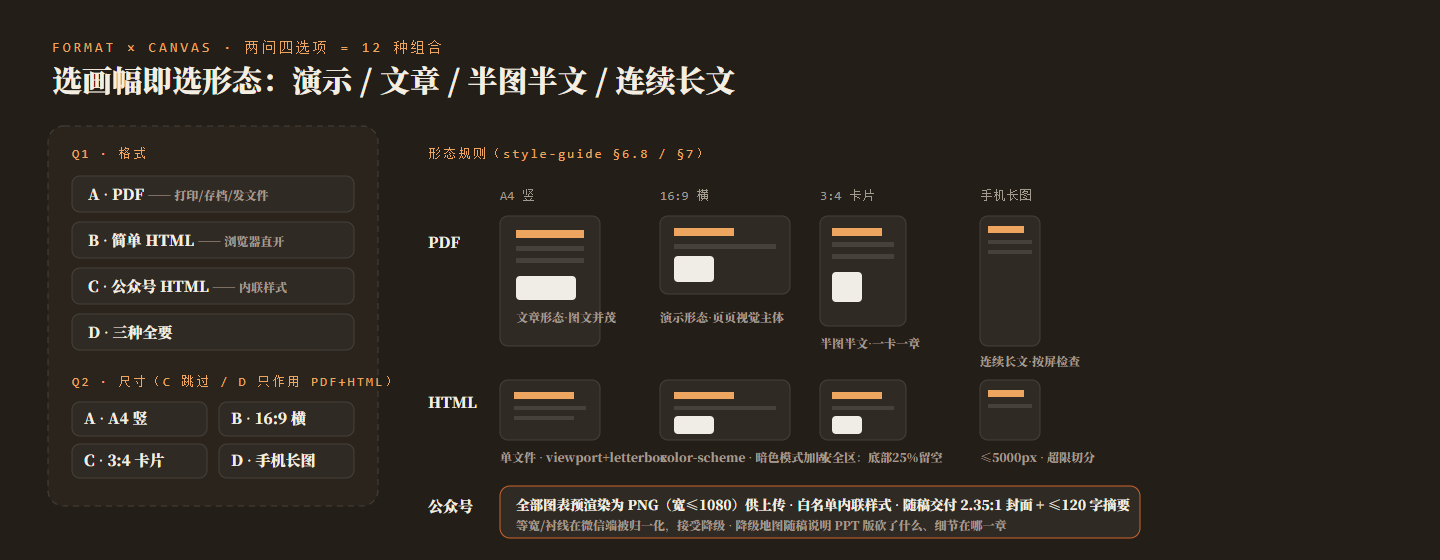
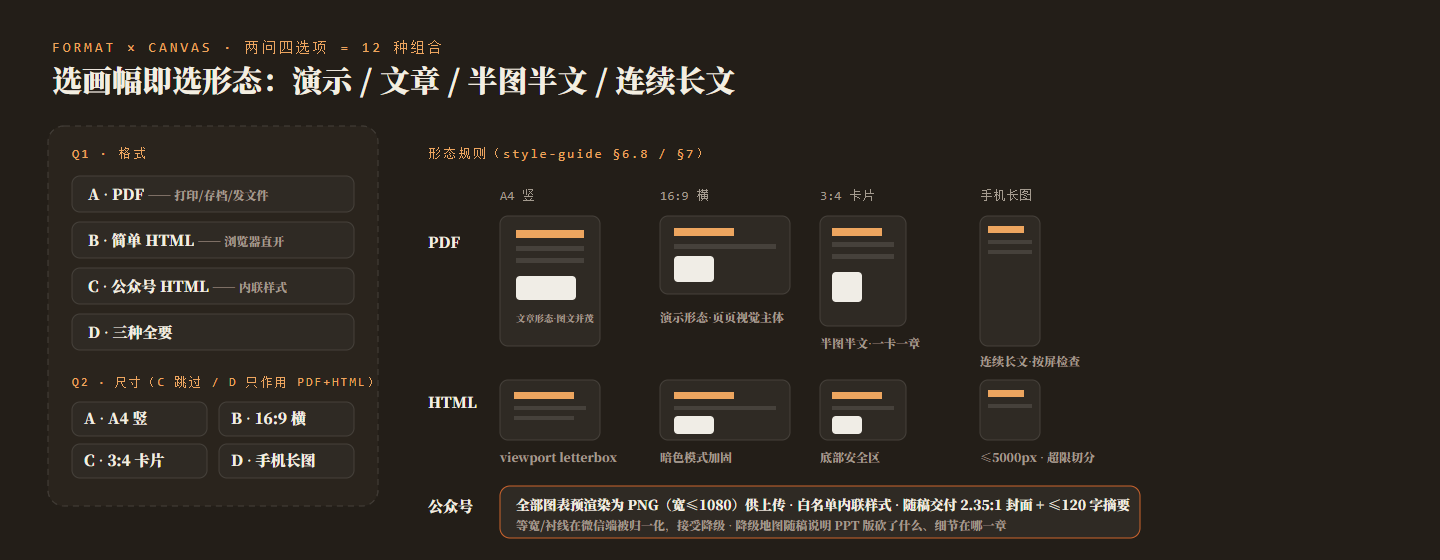
chore: 发布前盘点——选项 D 明确含 PDF、README 目录树补全（svg-autofit/docs-img）、SVG 预览重渲

Changed region(s): [[0.3438, 0.7893, 0.6562, 0.85], [0.0625, 0.6679, 0.2812, 0.6982], [0.3438, 0.5464, 0.4375, 0.5768]]

diff --git a/README.md b/README.md
@@ -100,13 +100,15 @@ references/
 assets/
   theme.css               设计令牌 + 全部模块样式
   template-*.html         A4 / 3:4 卡片 / 16:9 模板
-  wechat-template.html    公众号内联模板
+  wechat-template.html    公众号内联模板（连续文流、base64 图内嵌）
   diagram-check.js        配图机器检查（含样式加载守卫）
+  svg-autofit.js          SVG 分发场景回退字体自适应修正器
 scripts/html2pdf.sh       HTML→PDF（Edge/Chrome headless，已做 Windows 加固）
 examples/                 配图标本 + 渲染预览
-writing/2026-08-29-pi-agent/   端到端实战样例（全产物）
+writing/2026-08-29-pi-agent/   端到端实战样例（全产物：A4 PDF / 16:9 演示稿 / 公众号版 / 调研审查台账）
 writing-samples/          终稿回灌库（文风飞轮）
 000-reference/            风格提取的 8 张原始参考图
+docs/img/                 README 配图源文件与预览
 docs/img/                 README 配图源文件（SVG）
 ```
 

diff --git a/SKILL.md b/SKILL.md
@@ -30,7 +30,7 @@ description: "南橘写作流水线：从选题输入到深度技术长文再到
 - A. **PDF** —— 打印、存档、发文件
 - B. **卡片型 HTML** —— 分页卡片容器，适合本地浏览、发群文件、截图分享
 - C. **公众号 HTML** —— 连续文流、全内联样式，粘贴进公众号编辑器直接发表
-- D. **全要（含卡片型 + 连续文流两种 HTML）**
+- D. **全要（PDF + 卡片型 HTML + 连续文流公众号版）**
 
 **问题 2｜用什么尺寸/画幅？**
 - A. **竖版 A4** —— 长文档、可打印
